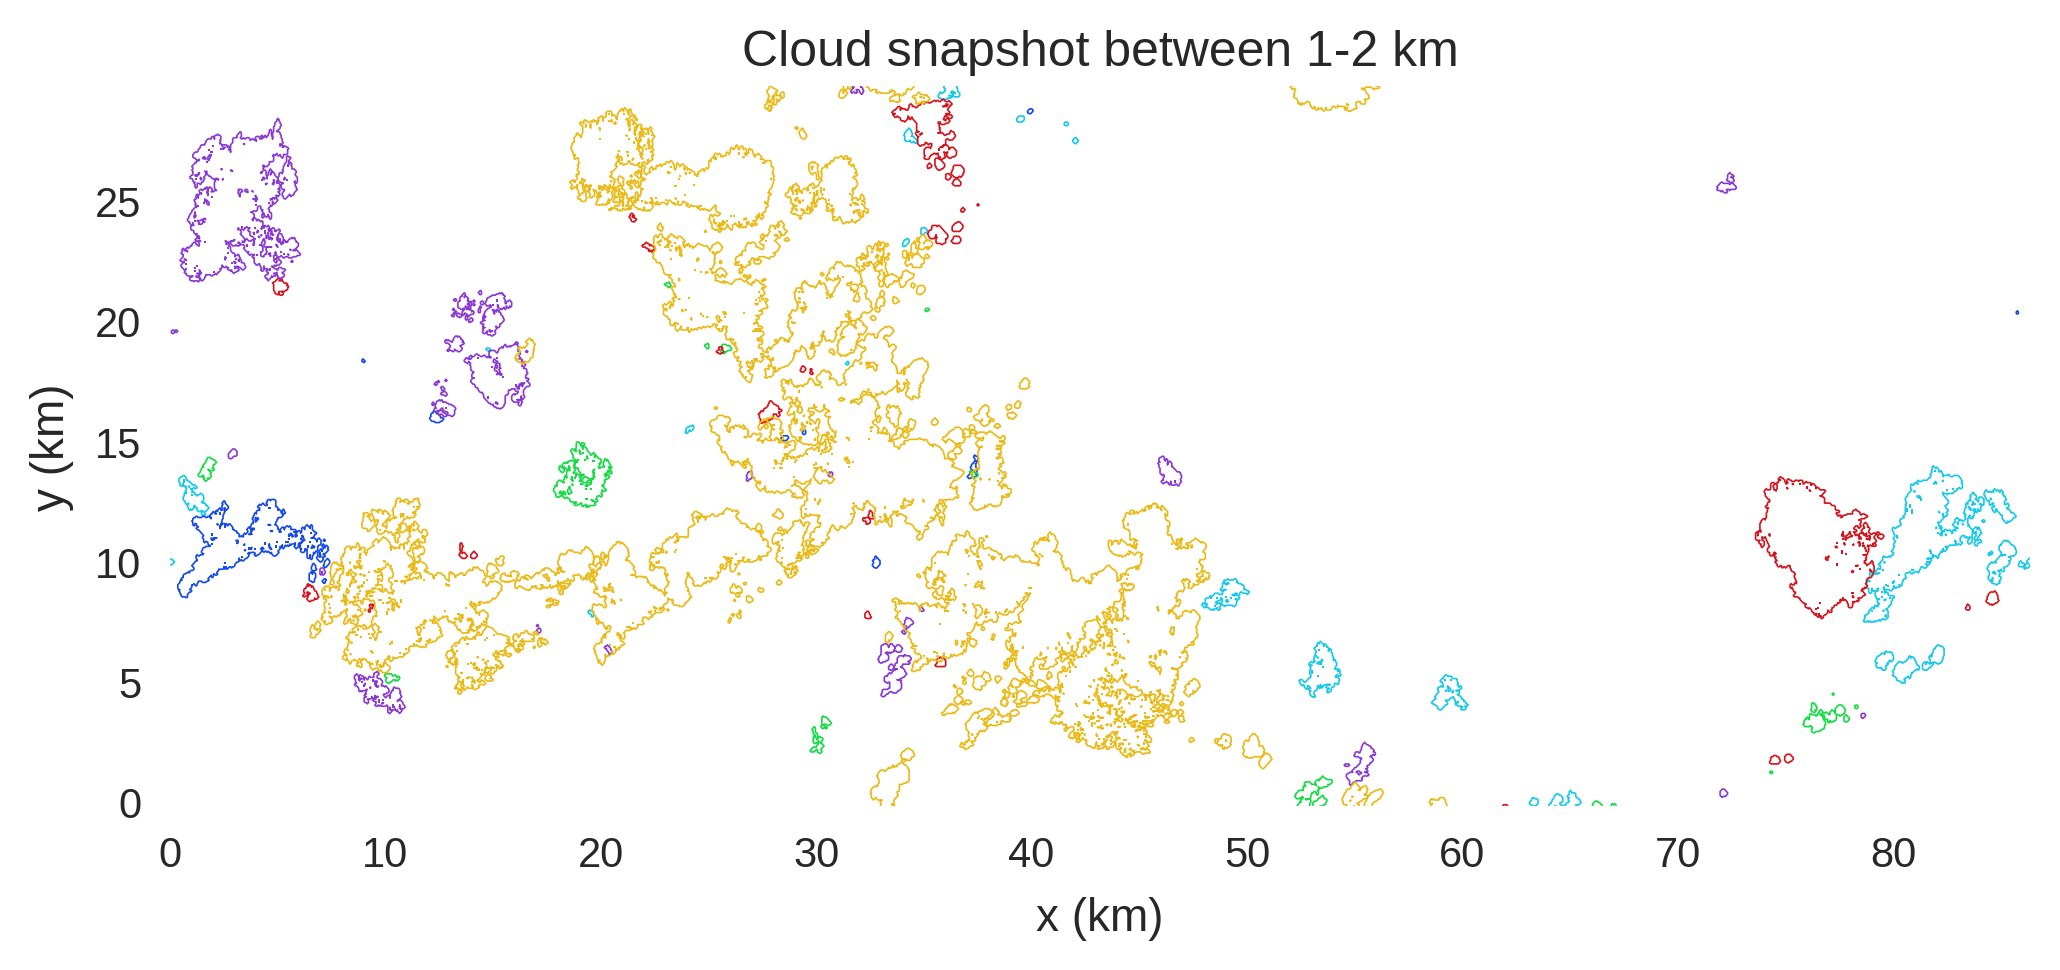
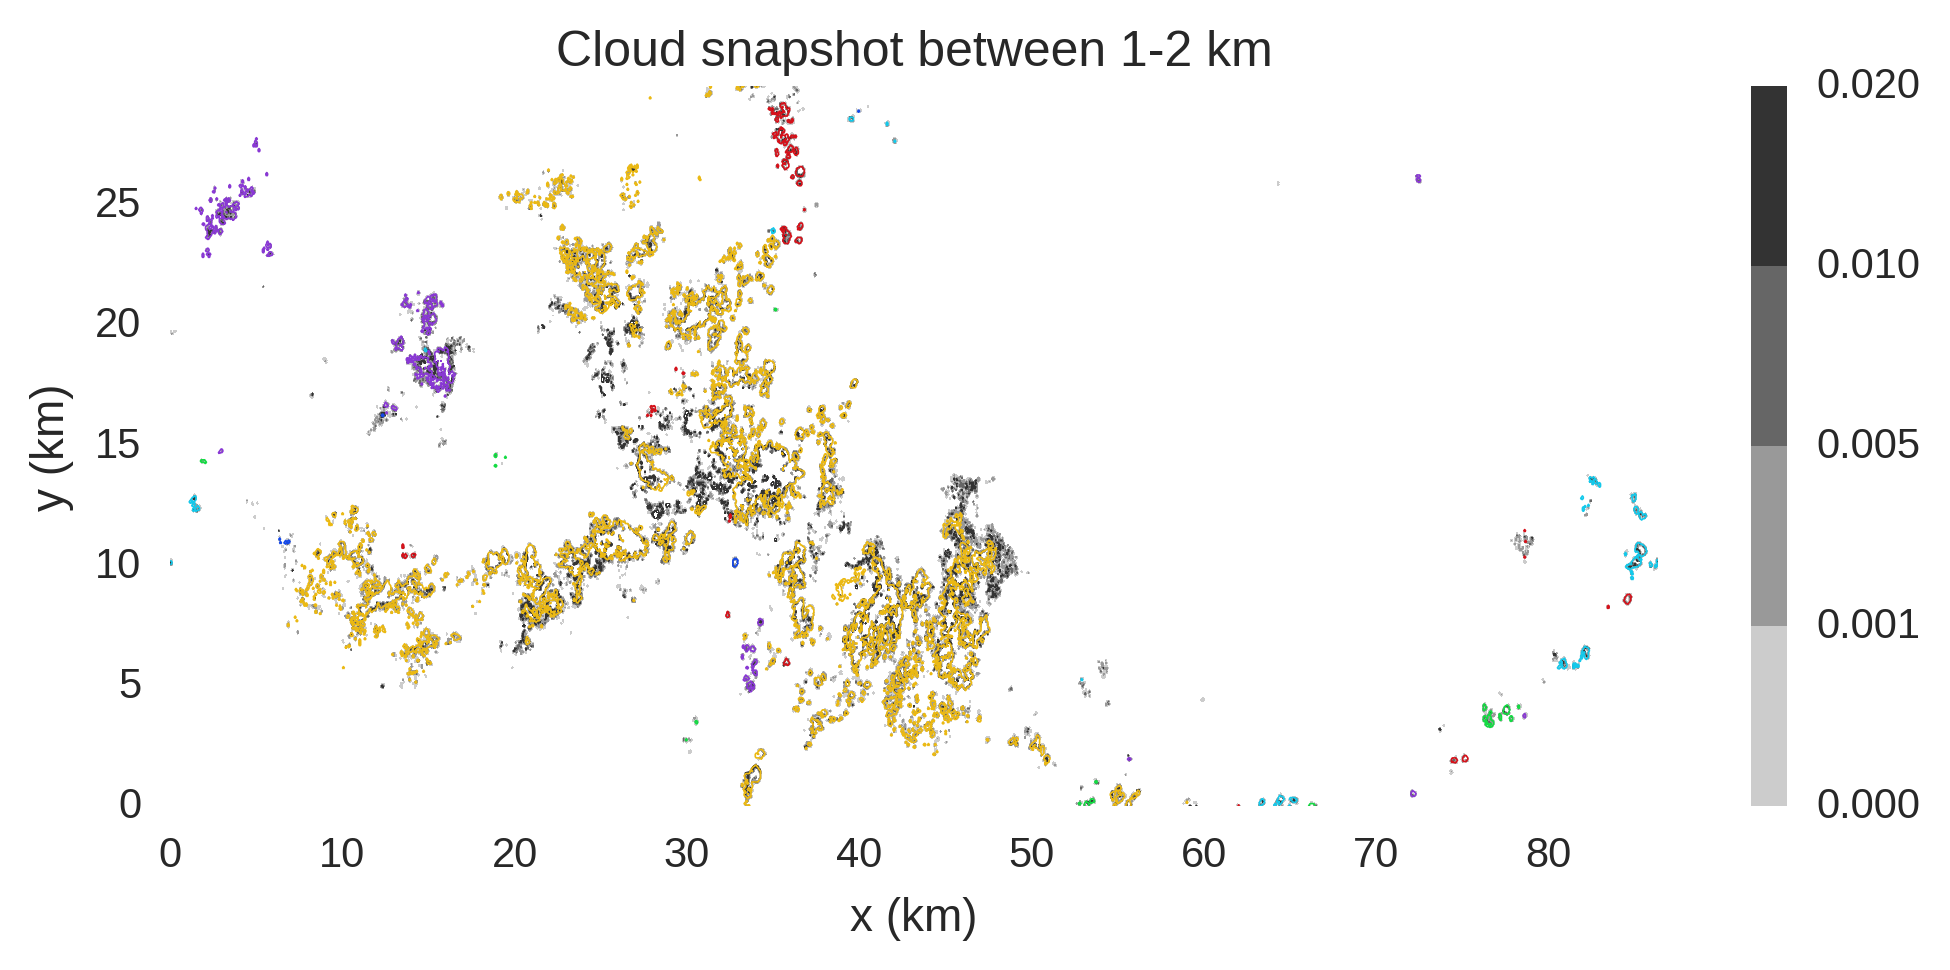
phil

diff --git a/hannah.py b/hannah.py
@@ -1,4 +1,6 @@
 import numpy as np
+import matplotlib
+matplotlib.use('Agg')
 
 from netCDF4 import Dataset as nc
 import matplotlib.pyplot as plt
@@ -22,10 +24,6 @@ def index_to_zyx(index, nz=320, ny=600, nx=1728):
     return (z, y, x)
 
 
-def wmean(weight, b, dv):
-    return (np.sum(weight * b * dv)/np.sum(weight * dv))
-
-
 def calc_dilution():
     dv = 50.**3
     dt = 60.
@@ -41,58 +39,89 @@ def calc_dilution():
     ent_files = glob.glob('%s/%s/*.nc' % (GATE, 'core'))
     ent_files.sort()
 
-    with nc('%s/GATE_1920x1920x512_50m_1s_ent_stat.nc' % GATE) as stat_file:
-        rho = stat_file.variables['RHO'][539:,:320].astype(np.float_)
-
     cloud_file = h5py.File(clouds[60])
     ids = list(cloud_file.keys())
-    id = 29781
-
-    core_points = np.hstack([cloud_file['%s/%s' % (str(id), 'core')][...],
-                            cloud_file['%s/%s' % (str(id), 'core_shell')]])
-
-    K, J, I = index_to_zyx(core_points)
     
     var_file = nc(var_files[60])
     ent_file = nc(ent_files[60])
 
-    QN_var = var_file.variables['QN'][:320, 300:900, :].astype(np.float_)
-    QV_var = var_file.variables['QV'][:320, 300:900, :].astype(np.float_)
-
     # TODO: filter epsilon values based on core definition
     eps_var = ent_file.variables['ETETCOR'][:320, 300:900, :].astype(np.float_)
 
-    data = {'p': var_file.variables['p'][:320].astype(np.float_),
+    data = {
+            'ids': ids,
+            'z': var_file.variables['z'][:320].astype(np.float_),
+            # 'p': var_file.variables['p'][:320].astype(np.float_),
             'TABS': var_file.variables['TABS'][:320, 300:900, :].astype(np.float_),
             'QV': var_file.variables['QV'][:320, 300:900, :].astype(np.float_),
             'QN': var_file.variables['QN'][:320, 300:900, :].astype(np.float_),
-            'QP': var_file.variables['QP'][:320, 300:900, :].astype(np.float_),       
+            # 'QP': var_file.variables['QP'][:320, 300:900, :].astype(np.float_),       
     }
+
+    with nc('%s/GATE_1920x1920x512_50m_1s_ent_stat.nc' % GATE) as stat_file:
+        data['rho'] = stat_file.variables['RHO'][539:,:320].astype(np.float_)
+
+    # core_points = np.hstack([cloud_file['%s/%s' % (str(id), 'core')][...],
+    #                         cloud_file['%s/%s' % (str(id), 'core_shell')]])
+    core_points = cloud_file['%s/%s' % (str(29904), 'core')][...]
+    K, J, I = index_to_zyx(core_points)
+
     # thetav = var_calcs.theta_v(data['p'], data['TABS'], data['QV'], data['QN'], data['QP'])
     dil = []
+    eps_list = []
     for k in np.unique(K):
+        print(k)
         mask = (K == k)
 
         eps = eps_var[K[mask], J[mask], I[mask]] * dt
 
-        QN = (data['QN'])[K[mask], J[mask], I[mask]] / 1e3
-        QV = (data['QV'])[K[mask], J[mask], I[mask]] / 1e3
-        # QP = (data['QP'])[K[mask], J[mask], I[mask]] / 1e3
+        QN = (data['QN'])[K[mask], J[mask], I[mask]] 
+        QV = (data['QV'])[K[mask], J[mask], I[mask]] 
+        # QP = (data['QP'])[K[mask], J[mask], I[mask]] 
         
-        # QV = QV_var[K[mask], J[mask], I[mask]] / 1e3
+        # QT = var_calcs.thetav(data, K[mask], J[mask], I[mask])
         QT = QN + QV
 
         QT = QT[(eps > 1e-6) & (eps < 10)]
         eps = eps[(eps > 1e-6) & (eps < 10)]
 
-        var_mean = wmean(rho[60, k], QT, dv)
+        def wmean(weight, b, dv):
+            return (np.sum(weight * b * dv)/np.sum(weight * dv))
 
-        dil_e = np.sum(eps * dv)/np.sum((rho[60, k] + eps) * dv) \
-                * (var_mean - wmean(eps, QT, dv))/var_mean/2
+        var_mean = wmean(data['rho'][60, k], QT, dv)
+
+        dil_e = (eps * dv).sum()/((data['rho'][60, k] + eps) * dv).sum() \
+                * (var_mean - wmean(eps, QT, dv))/var_mean/60
 
         dil += [dil_e * 60]
+        eps_list += [eps]
 
-    print(dil)
+
+    core_data = nc('cdf/core_entrain_profile_00000060.nc')
+    eps = core_data.variables['ETETCOR'][586, :]
+
+    sha = np.zeros_like(eps)
+    sha[3:3+len(dil)] = dil
+
+    sha[np.isnan(sha)] = 0.
+    eps[np.isnan(eps)] = 0.
+
+    fig = plt.figure(1, figsize=(5, 3.125))
+    fig.clf()
+    ax = fig.add_subplot(111)
+    
+
+    cmap = sns.cubehelix_palette(8, start=0.5, light=1, rot=-.75, \
+        gamma = 1.5, as_cmap=True)
+    H, xi, yi = np.histogram2d(sha, eps, bins=35, normed=False)
+    plt.pcolormesh(xi, yi, np.log10(H.T)+1e-10, vmin=.1, vmax=3,  \
+        cmap=cmap, alpha=.8, edgecolor='0.9', linewidths = (.2,),)
+    
+    plt.colorbar()
+
+    plt.savefig('%s.png' % ('output'), \
+        bbox_inches='tight', dpi=300, facecolor='w', transparent=True)
+
 
 if __name__ == '__main__':
     calc_dilution()

diff --git a/map_cloud_id.py b/map_cloud_id.py
@@ -36,8 +36,10 @@ def tracking_snapshot():
         core = []
         core_list = []
         for id in keys[:]:
-            K, J, I = np.array(index_to_zyx(f['%s/condensed' % id][...]), dtype=int) 
-            mask = (K >= 20) & (K <= 40)
+            core_points = np.hstack([f['%s/%s' % (str(id), 'core')][...],])
+                                    # f['%s/%s' % (str(id), 'core_shell')]])
+            K, J, I = np.array(index_to_zyx(core_points), dtype=int) 
+            mask = (K >= 20) & (K <= 22)
             mask = mask & ((len(K) + len(J) + len(I)) > 24)
             core.append((J[mask], I[mask]))
 
@@ -54,13 +56,18 @@ def tracking_snapshot():
         line_color = '#%02x%02x%02x' % (int(line_color[0]*255), int(line_color[1]*255), int(line_color[2]*255))
         plt.contour(x, y, temp_mesh, levels=[0], colors=line_color, linewidths = (.4,),)
 
-    # levs = np.linspace(1e-7, 2e-2, 11)
-    # levs = array((1e-7, 1e-3, 5e-3, 1e-2, 2e-2))
-    # cols = np.linspace(.8,0,5)
-    # cols = [str(item) for item in cols]
+    core_file = '/newtera/loh/data/GATE/core/GATE_CORE_ENTRAIN_1920x1920x512_50m_1s_ent_comp_0000032400.nc'
+    with nc(core_file, 'r') as f:
+        eps = f.variables['ETETCOR'][20:22, 300:900, :]
+        eps = np.nanmean(eps, axis=0)
+
+    levs = np.linspace(1e-7, 2e-2, 11)
+    levs = np.array((1e-7, 1e-3, 5e-3, 1e-2, 2e-2))
+    cols = np.linspace(.8,0,5)
+    cols = [str(item) for item in cols]
     
-    # plt.contourf(x, y, eps, levels=levs, colors=cols)
-    # plt.colorbar()
+    plt.contourf(x, y, eps, levels=levs, colors=cols)
+    plt.colorbar()
 
     plt.title('Cloud snapshot between 1-2 km')
     plt.ylabel('y (km)')

diff --git a/var_calcs.py b/var_calcs.py
@@ -81,7 +81,7 @@ def thetav(data, k, j, i):
     return theta_v(data['p'][k, np.newaxis, np.newaxis]*100., 
                        data['TABS'][k, j, i], 
                        data['QV'][k, j, i]/1000., 
-                       data['QN'][k, j, i]/1000., 0.).mean()
+                       data['QN'][k, j, i]/1000., 0.)
 
 def moist_adiabatic_lapse_rate(T, qv):
     return g*(1 + Lv*qv/Rd/T)/(cp + Lv*Lv*qv*epsilon/Rd/T/T)

diff --git a/plot_profiles.py b/plot_profiles.py
@@ -28,6 +28,8 @@ def plot_profiles_main(var, cloud_type):
 
     Notes
     ----------
+    This script requires data generated from profile_main.py
+
     For entrainment-related variables, see plot_profiles_ent.py
     """
 
